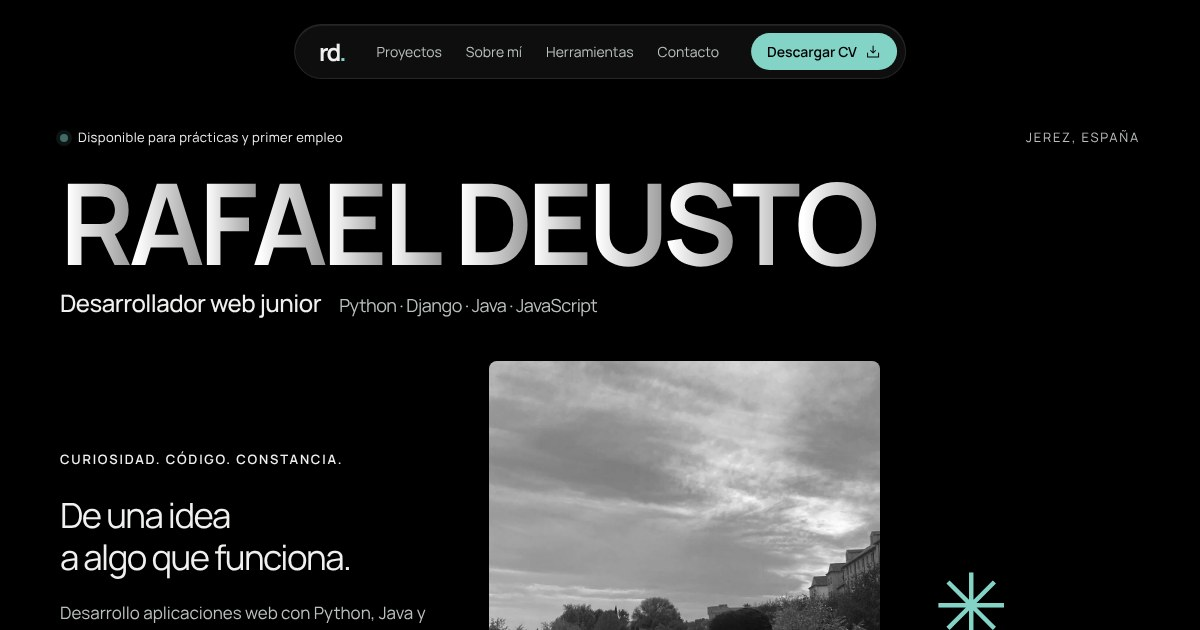
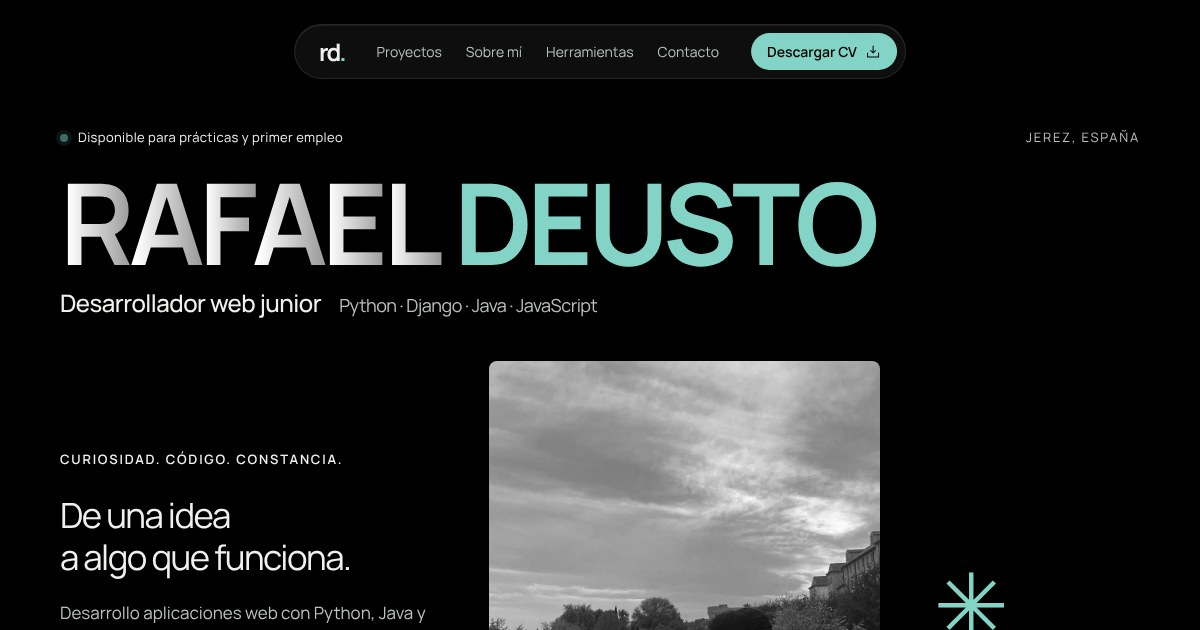
Volver a mostrar el apellido en color turquesa
Claude-Session: https://claude.ai/code/session_01RsojQU4FhvfHuqc1ziSe5o

Changed region(s): [[0.37, 0.2714, 0.74, 0.4222]]

diff --git a/assets/index-YK7Gt9VJ.css b/assets/index-YK7Gt9VJ.css
@@ -1,0 +1,1 @@
+@import "https://fonts.googleapis.com/css2?family=Manrope:wght@400;500;600;700&display=swap";@layer properties{@supports (((-webkit-hyphens:none)) and (not (margin-trim:inline))) or ((-moz-orient:inline) and (not (color:rgb(from red r g b)))){*,:before,:after,::backdrop{--tw-blur:initial;--tw-brightness:initial;--tw-contrast:initial;--tw-grayscale:initial;--tw-hue-rotate:initial;--tw-invert:initial;--tw-opacity:initial;--tw-saturate:initial;--tw-sepia:initial;--tw-drop-shadow:initial;--tw-drop-shadow-color:initial;--tw-drop-shadow-alpha:100%;--tw-drop-shadow-size:initial}}}@layer theme{:root,:host{--font-sans:ui-sans-serif, system-ui, sans-serif, "Apple Color Emoji", "Segoe UI Emoji", "Segoe UI Symbol", "Noto Color Emoji";--font-mono:ui-monospace, SFMono-Regular, Menlo, Monaco, Consolas, "Liberation Mono", "Courier New", monospace;--spacing:.25rem;--default-font-family:var(--font-sans);--default-mono-font-family:var(--font-mono)}}@layer base{*,:after,:before,::backdrop{box-sizing:border-box;border:0 solid;margin:0;padding:0}::file-selector-button{box-sizing:border-box;border:0 solid;margin:0;padding:0}html,:host{-webkit-text-size-adjust:100%;tab-size:4;line-height:1.5;font-family:var(--default-font-family,ui-sans-serif, system-ui, sans-serif, "Apple Color Emoji", "Segoe UI Emoji", "Segoe UI Symbol", "Noto Color Emoji");font-feature-settings:var(--default-font-feature-settings,normal);font-variation-settings:var(--default-font-variation-settings,normal);-webkit-tap-highlight-color:transparent}hr{height:0;color:inherit;border-top-width:1px}abbr:where([title]){-webkit-text-decoration:underline dotted;text-decoration:underline dotted}h1,h2,h3,h4,h5,h6{font-size:inherit;font-weight:inherit}a{color:inherit;-webkit-text-decoration:inherit;-webkit-text-decoration:inherit;-webkit-text-decoration:inherit;-webkit-text-decoration:inherit;text-decoration:inherit}b,strong{font-weight:bolder}code,kbd,samp,pre{font-family:var(--default-mono-font-family,ui-monospace, SFMono-Regular, Menlo, Monaco, Consolas, "Liberation Mono", "Courier New", monospace);font-feature-settings:var(--default-mono-font-feature-settings,normal);font-variation-settings:var(--default-mono-font-variation-settings,normal);font-size:1em}small{font-size:80%}sub,sup{vertical-align:baseline;font-size:75%;line-height:0;position:relative}sub{bottom:-.25em}sup{top:-.5em}table{text-indent:0;border-color:inherit;border-collapse:collapse}:-moz-focusring{outline:auto}progress{vertical-align:baseline}summary{display:list-item}ol,ul,menu{list-style:none}img,svg,video,canvas,audio,iframe,embed,object{vertical-align:middle;display:block}img,video{max-width:100%;height:auto}button,input,select,optgroup,textarea{font:inherit;font-feature-settings:inherit;font-variation-settings:inherit;letter-spacing:inherit;color:inherit;opacity:1;background-color:#0000;border-radius:0}::file-selector-button{font:inherit;font-feature-settings:inherit;font-variation-settings:inherit;letter-spacing:inherit;color:inherit;opacity:1;background-color:#0000;border-radius:0}:where(select:is([multiple],[size])) optgroup{font-weight:bolder}:where(select:is([multiple],[size])) optgroup option{padding-inline-start:20px}::file-selector-button{margin-inline-end:4px}::placeholder{opacity:1}@supports (not ((-webkit-appearance:-apple-pay-button))) or (contain-intrinsic-size:1px){::placeholder{color:currentColor}@supports (color:color-mix(in lab, red, red)){::placeholder{color:color-mix(in oklab, currentcolor 50%, transparent)}}}textarea{resize:vertical}::-webkit-search-decoration{-webkit-appearance:none}::-webkit-date-and-time-value{min-height:1lh;text-align:inherit}::-webkit-datetime-edit{display:inline-flex}::-webkit-datetime-edit-fields-wrapper{padding:0}::-webkit-datetime-edit{padding-block:0}::-webkit-datetime-edit-year-field{padding-block:0}::-webkit-datetime-edit-month-field{padding-block:0}::-webkit-datetime-edit-day-field{padding-block:0}::-webkit-datetime-edit-hour-field{padding-block:0}::-webkit-datetime-edit-minute-field{padding-block:0}::-webkit-datetime-edit-second-field{padding-block:0}::-webkit-datetime-edit-millisecond-field{padding-block:0}::-webkit-datetime-edit-meridiem-field{padding-block:0}::-webkit-calendar-picker-indicator{line-height:1}:-moz-ui-invalid{box-shadow:none}button,input:where([type=button],[type=reset],[type=submit]){appearance:button}::file-selector-button{appearance:button}::-webkit-inner-spin-button{height:auto}::-webkit-outer-spin-button{height:auto}[hidden]:where(:not([hidden=until-found])){display:none!important}}@layer components;@layer utilities{.visible{visibility:visible}.absolute{position:absolute}.start{inset-inline-start:var(--spacing)}.block{display:block}.resize{resize:both}.blur{--tw-blur:blur(8px);filter:var(--tw-blur,) var(--tw-brightness,) var(--tw-contrast,) var(--tw-grayscale,) var(--tw-hue-rotate,) var(--tw-invert,) var(--tw-saturate,) var(--tw-sepia,) var(--tw-drop-shadow,)}}:root{--background:#101314;--foreground:#eff1ee;--accent:#83d3c7;--muted:#a2a9a8;--border:#303637;--primary:#83d3c7;--primary-foreground:#101314;--radius:1rem}*{box-sizing:border-box}html{scroll-behavior:smooth;scroll-padding-top:90px}body{background:var(--background);color:var(--foreground);margin:0;font-family:Manrope,sans-serif}a{color:inherit;text-decoration:none}button,a{-webkit-tap-highlight-color:transparent}a:focus-visible,button:focus-visible{outline:2px solid var(--accent);outline-offset:6px}nav,a.pill{align-items:center;gap:24px;display:flex}.nav{border-bottom:1px solid var(--border);justify-content:space-between;align-items:center;height:94px;margin:0 5%;display:flex}.brand{letter-spacing:-3px;font-family:Manrope,sans-serif;font-size:40px;font-weight:700}.brand span{color:var(--accent)}nav{gap:36px;font-size:14px}nav a:last-child{align-items:center;gap:8px;display:flex}nav a:hover{color:var(--accent)}.hero{padding:30px 5% 84px}.hero-top{letter-spacing:1.8px;color:var(--muted);justify-content:space-between;font-size:12px;display:flex}h1{letter-spacing:-.055em;white-space:nowrap;margin:26px 0 28px;font-family:Manrope,sans-serif;font-size:clamp(70px,13.6vw,220px);font-weight:600;line-height:.98}h1 span{color:var(--accent)}.hero-bottom{grid-template-columns:1fr 1fr .56fr;align-items:end;gap:5%;display:grid}.eyebrow{letter-spacing:1.8px;font-size:12px;font-weight:600}.intro>p{letter-spacing:-1.5px;margin:24px 0 20px;font-size:clamp(25px,2.9vw,44px);line-height:1.22}.intro-copy{color:var(--muted);max-width:370px;font-size:15px;line-height:1.8}.pill{border-radius:99px;width:fit-content;margin-top:28px;padding:18px 23px;font-size:14px;font-weight:700;transition:transform .2s,background .2s;gap:25px!important}.pill:hover{background:var(--accent);transform:translateY(-3px)}.light{background:var(--foreground);color:var(--background)}.portrait{background:#bfc3bd;border-radius:8px;height:370px;position:relative;overflow:hidden}.portrait img{object-fit:cover;object-position:center 36%;filter:grayscale();width:100%;height:100%}.portrait-caption{color:#fff;letter-spacing:1.8px;background:linear-gradient(#0000,#101314aa);justify-content:space-between;padding:18px;font-size:10px;display:flex;position:absolute;bottom:0;left:0;right:0}.hero-note{padding-bottom:10px}.asterisk{color:var(--accent);font-size:90px;line-height:1}.hero-note p{margin:18px 0 35px;font-size:17px;line-height:1.55}.hero-note a,.project a{align-items:center;gap:10px;font-size:14px;display:flex}.projects{border-top:1px solid var(--border);padding:100px 5%}.section-head{justify-content:space-between;align-items:start;margin-bottom:65px;display:flex}h2{letter-spacing:-3px;width:60%;margin:0;font-size:clamp(40px,6vw,86px);font-weight:500;line-height:1.05}h2 em{color:var(--accent);font-style:normal}.project{border-top:1px solid var(--border);grid-template-columns:1fr 1.65fr;gap:50px;padding-top:35px;display:grid}.project h3{letter-spacing:-2px;margin:20px 0;font-size:48px}.project p{color:var(--muted);font-size:16px;line-height:1.8}.project img{border-radius:10px;width:100%}.project a{color:var(--accent);margin-top:25px}@media (width<=700px){.nav{height:76px}nav{gap:18px;font-size:12px}.hero-top{letter-spacing:.6px;font-size:9px}.hero{padding-top:24px}h1{margin:30px 0;font-size:13vw}.hero-bottom{grid-template-columns:1fr 1fr;gap:22px}.intro{grid-column:1/-1}.intro>p{font-size:36px}.portrait{height:300px}.hero-note p{font-size:15px}.asterisk{font-size:70px}.section-head{display:block}.section-head h2{letter-spacing:-2px;width:100%;margin-top:25px}.projects{padding-top:60px}.project{grid-template-columns:1fr;gap:20px}.project h3{font-size:40px}}@media (prefers-reduced-motion:reduce){html{scroll-behavior:auto}*{transition:none!important;animation:none!important}}.skip-link{z-index:100;background:var(--accent);color:#101314;padding:16px;position:fixed;top:-80px;left:20px}.skip-link:focus{top:16px}.tech-ribbon{border-block:1px solid var(--border);padding:26px 0;overflow:hidden}.tech-track{width:max-content;animation:36s linear infinite marquee;display:flex}.tech-ribbon:hover .tech-track{animation-play-state:paused}.tech-set{align-items:center;display:flex}.tech-set>span{white-space:nowrap;color:#c0c6c4;align-items:center;gap:55px;margin-right:55px;font-family:Manrope,sans-serif;font-size:32px;line-height:1;display:flex}.tech-set i{color:var(--accent);font-size:22px;font-style:normal}.portrait img{transform:scale(1.045) translate(var(--px,0px),var(--py,0px));transition:transform .4s ease-out}.section-aside{color:var(--muted);margin-top:25px;font-size:14px;line-height:1.7}.projects{border-top:none;padding-bottom:40px}.project{background:var(--background);align-items:center;padding:40px 0 80px}.project-index{color:var(--accent);align-items:center;gap:22px;font-family:Manrope,sans-serif;font-size:42px;font-weight:400;display:flex}.project-index span{letter-spacing:1.3px;color:var(--muted);font-family:Manrope,sans-serif;font-size:11px}.project h3{justify-content:space-between;align-items:center;margin:12px 0 20px;font-size:clamp(36px,4vw,58px);font-weight:500;display:flex}.project h3>span{color:var(--muted);font-size:26px}.project p{font-size:15px;line-height:1.8}.contribution{margin:22px 0}.contribution>span{letter-spacing:1.3px;color:#e3e7e4;font-size:11px}.contribution p{margin-top:8px;font-size:14px}.tags{flex-wrap:wrap;gap:8px;display:flex}.tags span{white-space:nowrap;border:1px solid #3d4646;border-radius:30px;padding:7px 12px;font-size:12px}.project a.project-link{border-bottom:1px solid #3d4646;justify-content:space-between;padding:18px 0 10px;font-size:14px;transition:color .2s}.project-link:hover{color:#fff}.tournament{background:#183c38;border:1px solid #2d5750;border-radius:12px;min-height:440px;padding:32px;overflow:hidden;box-shadow:inset 0 0 100px #0d252480}.tournament-top{justify-content:space-between;align-items:center;gap:15px;display:flex}.tournament-top>span:first-child{letter-spacing:-.5px;font-family:Manrope,sans-serif;font-size:18px;font-weight:600}.tournament-top>span:first-child span{color:#a1e5a9}.diagram-label{letter-spacing:1px;color:#b0c9c0;font-size:9px}.tournament-title{margin:26px 0;font-family:Manrope,sans-serif;font-size:clamp(28px,3vw,44px);line-height:1.15}.tournament-title>span{color:#a1e5a9}.bracket{grid-template-columns:1fr 42px 1fr;align-items:center;display:grid}.round>span{letter-spacing:1.5px;color:#b0c9c0;margin-bottom:12px;font-size:10px;display:block}.match{background:#102e2b;border:1px solid #386158;border-radius:7px;margin:10px 0;overflow:hidden}.match p{color:#e6ebe2;justify-content:space-between;padding:9px 12px;font-size:12px;line-height:1.2;display:flex;margin:0!important}.match p+p{color:#95aca2;border-top:1px solid #2a4d44}.match b{color:#a1e5a9}.connector{border:1px solid #75a38b;border-left:0;height:94px;margin-right:20px;position:relative}.connector:after{content:"";border-top:1px solid #75a38b;width:20px;position:absolute;top:50%;right:-20px}.diagram-footer{color:#b0c9c0;gap:18px;margin-top:25px;font-size:10px;display:flex}.tesis-visual{background:#191c20;border:1px solid #31353b;border-radius:12px;margin:0;padding:24px 0 0;overflow:hidden}.tesis-visual img{aspect-ratio:16/9;object-fit:contain;border-radius:0;display:block}.tesis-visual figcaption{color:#abb2b9;justify-content:space-between;gap:12px;padding:25px;font-size:12px;display:flex}.tesis-visual figcaption span:last-child{letter-spacing:1px;color:#bbae89;font-size:10px}.about{border-top:1px solid var(--border);padding:80px 5% 110px}.about-head{justify-content:space-between;align-items:center;margin-bottom:35px;display:flex}.about-head .asterisk{font-size:60px}.about h2{letter-spacing:-4px;width:100%;font-size:clamp(45px,7.3vw,110px)}.about-body{grid-template-columns:40% 60%;margin-top:65px;display:grid}.about-label{letter-spacing:1.5px;color:var(--muted);padding-top:8px;font-size:12px}.about-body p{color:#c2c9c6;max-width:720px;margin:0 0 20px;font-size:19px;line-height:1.8}.about-body p:first-child{color:var(--foreground);font-size:24px;line-height:1.6}.text-link{color:var(--accent);border-bottom:1px solid #50746d;align-items:center;gap:35px;width:fit-content;padding:10px 0;font-size:15px;display:flex}.experience-note{border-top:1px solid var(--border);grid-template-columns:40% 60%;margin-top:60px;padding-top:30px;display:grid}.experience-note>span{letter-spacing:1px;color:var(--accent);font-size:12px}.experience-note p{color:var(--muted);max-width:720px;margin:0;font-size:15px;line-height:1.8}.skills{color:#182320;background:#edf0eb;border-radius:35px 35px 0 0;padding:100px 5%}.skills h2{font-size:clamp(45px,6vw,84px)}.skill-row{border-top:1px solid #bcc7bf;grid-template-columns:55px 1fr auto 45px;align-items:center;gap:20px;padding:32px 0;display:grid}.skill-row:last-child{border-bottom:1px solid #bcc7bf}.skill-number{color:#52655b;align-self:start;margin-top:10px;font-size:13px}.skill-row h3{letter-spacing:-1px;margin:0 0 7px;font-size:32px;font-weight:500}.skill-row p{color:#52655b;margin:0;font-size:14px;line-height:1.7}.skills .tags span{border-color:#b6c3b9;font-size:13px}.skill-arrow{justify-self:end}.learning-grid{grid-template-columns:1fr 1fr;gap:10%;margin-top:90px;display:grid}.learning-grid h3{letter-spacing:-1px;margin:22px 0;font-size:34px;font-weight:500;line-height:1.2}.learning-grid p{color:#43574b;font-size:15px;line-height:1.8}.learning-date{margin:20px 0;color:#182320!important;font-size:23px!important}.status{background:#e2e8e1;border-left:2px solid #467a68;max-width:400px;padding:15px 18px;font-size:13px!important}.course-link{text-underline-offset:5px;align-items:center;gap:10px;font-size:15px;text-decoration:underline;display:flex}.course-meta{font-size:12px!important}.languages{border-top:1px solid #bdc8bf;margin-top:30px;padding-top:25px}.languages>span{letter-spacing:1.5px;font-size:11px}.languages p{margin-bottom:0;font-size:14px}.contact{padding:95px 5% 50px}.contact-top{color:var(--muted);letter-spacing:1px;justify-content:space-between;gap:20px;font-size:12px;display:flex}.contact h2{letter-spacing:-5px;width:100%;margin:60px 0;font-size:clamp(55px,9.6vw,145px);position:relative}.contact h2>svg{stroke-width:1px;width:100px;height:100px;position:absolute;top:25%;right:4%}.contact-bottom{justify-content:space-between;align-items:center;display:flex}.contact-bottom p{margin:0;font-size:19px;line-height:1.7}.contact-bottom p>span{color:var(--muted)}.contact-pill{color:#10251f;background:linear-gradient(120deg,#8ee0cd,#aadbbb);justify-content:space-between;gap:28px;min-width:255px;margin-top:0;padding:26px 35px;box-shadow:inset 0 1px 1px #e6fff6,0 7px 35px #73cbb51a;font-size:20px!important}.contact-pill:hover{box-shadow:inset 0 1px 1px #e6fff6,0 10px 40px #73cbb540}.contact-links{border-top:1px solid var(--border);gap:38px;margin-top:60px;padding-top:28px;font-size:14px;display:flex}.contact-links a{align-items:center;gap:10px;display:flex}.contact-links a:first-child{margin-right:auto}.contact-links a:hover{color:var(--accent)}footer{color:var(--muted);justify-content:space-between;align-items:center;gap:20px;padding:22px 5% 35px;font-size:12px;display:flex}footer .brand{color:var(--foreground);font-size:30px}footer a:last-child{font-size:12px}section[id]{scroll-margin-top:35px}[data-reveal].is-visible{animation-play-state:running}@keyframes marquee{to{transform:translate(-50%)}}@keyframes reveal-in{0%{opacity:.35;transform:translateY(24px)}to{opacity:1;transform:translateY(0)}}@media (width>=1100px){.project{min-height:660px;position:sticky;top:10px}.tesis-project{padding-bottom:65px}.hero{max-width:1800px;margin:auto}.hero-bottom{grid-template-columns:1fr 1.04fr .55fr}.portrait{height:410px}}@media (width>=1800px){h1{font-size:220px}.nav,.projects,.about,.skills,.contact,footer{padding-left:calc(50vw - 810px);padding-right:calc(50vw - 810px)}.nav{margin:0}}@media (width<=1000px){.hero-bottom{grid-template-columns:1.1fr 1fr;gap:35px}.hero-note{display:none}.portrait{height:370px}.intro>p{font-size:32px}.project{grid-template-columns:1fr 1.2fr;gap:30px}.tournament{min-height:420px;padding:23px}.tournament-top{flex-direction:column;align-items:start;gap:8px}.skill-row{grid-template-columns:35px 1fr auto;gap:18px}.skill-arrow{display:none}.skill-row .tags{justify-content:flex-end;max-width:200px}.about-body p{font-size:17px}.about-body p:first-child{font-size:21px}}@media (width<=700px){.hero-bottom{grid-template-columns:1fr 1fr;align-items:end;gap:25px}.hero-note{display:block}.intro{grid-column:1/-1}.portrait{height:300px}.intro>p{font-size:36px}.intro-copy{max-width:100%;font-size:16px}.hero-note p{font-size:16px}.hero-top{line-height:1.6}.tech-ribbon{padding:23px 0}.tech-set>span{gap:32px;margin-right:32px;font-size:25px}.projects{padding:65px 5% 0}.section-head{margin-bottom:40px}.section-aside{font-size:14px}.project{grid-template-columns:1fr;gap:28px;padding:25px 0 55px}.project h3{font-size:44px}.project p{font-size:16px}.contribution p{font-size:14px}.project-index span{font-size:11px}.tournament{min-height:390px;padding:25px}.tournament-top{flex-direction:row;align-items:center}.tournament-title{font-size:35px}.diagram-label{text-align:right;max-width:65px;font-size:8px}.diagram-footer{gap:15px;font-size:10px}.tesis-visual figcaption{padding:20px;font-size:11px}.about{padding:55px 5% 65px}.about h2{letter-spacing:-2px;font-size:clamp(37px,8.2vw,58px)}.about-head .asterisk{font-size:42px}.about-body{grid-template-columns:1fr;gap:20px;margin-top:35px}.about-body p:first-child{font-size:21px}.about-body p{font-size:16px}.experience-note{grid-template-columns:1fr;gap:20px;margin-top:40px}.skills{border-radius:22px 22px 0 0;padding:65px 5%}.skill-row{grid-template-columns:25px 1fr;gap:16px;padding:25px 0}.skill-row h3{font-size:27px}.skill-row .tags{grid-column:2;justify-content:flex-start;max-width:none}.skill-row p{font-size:14px}.learning-grid{grid-template-columns:1fr;gap:45px;margin-top:55px}.learning-grid h3{font-size:32px}.contact{padding:65px 5% 35px}.contact-top{letter-spacing:.5px;align-items:start;font-size:10px}.contact-top .eyebrow{letter-spacing:1px;font-size:10px}.contact-top>span:last-child{text-align:right;max-width:130px}.contact h2{letter-spacing:-2px;margin:40px 0;font-size:clamp(45px,10.5vw,72px)}.contact h2>svg{display:none}.contact-bottom{flex-direction:column;align-items:flex-start;gap:30px}.contact-bottom p{font-size:17px}.contact-pill{min-width:250px;padding:24px 30px}.contact-links{flex-wrap:wrap;gap:22px;margin-top:40px;font-size:13px}.contact-links a:first-child{width:100%}footer{flex-wrap:wrap;gap:20px;font-size:11px}footer a:last-child{margin-left:auto}.eyebrow{letter-spacing:1.1px;font-size:11px}}@media (prefers-reduced-motion:reduce){[data-reveal]{opacity:1;animation:none;transform:none}.tech-track{animation:none}.portrait img{transform:none}}h1{letter-spacing:-.035em;font-size:clamp(64px,12.35vw,205px)}@media (width<=700px){h1{letter-spacing:-.04em;font-size:12.4vw}}@media (width>=1800px){h1{font-size:205px}}.portrait{aspect-ratio:1080/1346;background:#101314;justify-self:center;width:100%;max-width:400px;height:auto}.portrait img{object-position:center;transform:none}.project-gallery{min-width:0}.project-gallery .tesis-visual{margin:0}.project-gallery .tesis-visual img{aspect-ratio:16/9;object-fit:cover;object-position:top;background:#f5f6f8;width:100%;height:auto}@media (width<=700px){.portrait{max-width:320px}.project-gallery .tesis-visual img{max-height:none}}.project .project-preview{display:block}.project-preview:focus-visible{outline:3px solid var(--accent);outline-offset:-3px}.hero-note a+a{margin-top:14px}.contact-links{flex-wrap:wrap}:root{--muted:#b9c0bf}.nav-cv{background:var(--accent);border-radius:99px;padding:10px 16px;font-weight:600;transition:transform .2s,background .2s;color:var(--primary-foreground)!important}.nav-cv:hover{background:var(--foreground)}.nav-cv:active,.pill:active,.btn:active{transform:scale(.98)}.hero-top{font-size:13px}.availability{color:var(--foreground);letter-spacing:.4px;align-items:center;gap:10px;display:inline-flex}.availability i{background:var(--accent);border-radius:50%;width:8px;height:8px;box-shadow:0 0 0 4px #83d3c733}h1{margin:24px 0 12px;font-size:clamp(56px,9.4vw,156px)}.hero-role{letter-spacing:-.5px;flex-wrap:wrap;align-items:baseline;gap:4px 18px;margin:0 0 40px;font-size:clamp(20px,2vw,30px);font-weight:500;display:flex}.hero-role span{color:var(--muted);font-size:.75em;font-weight:400}.intro-copy{max-width:440px;font-size:17px;line-height:1.7}.hero-actions{flex-wrap:wrap;gap:12px;margin-top:28px;display:flex}.hero-actions .pill{margin-top:0;font-size:16px;font-weight:600}.ghost{color:var(--foreground);border:1px solid #4a5354}.ghost:hover{color:var(--primary-foreground)}.eyebrow{font-size:13px}.section-aside{font-size:15px}.project p{font-size:16px}.contribution>span{font-size:12px}.contribution p{font-size:15px}.project-index span{font-size:12px}.tags span{border-color:#4a5354;font-size:13px}.project-actions{flex-wrap:wrap;gap:12px;margin-top:28px;display:flex}.project a.btn{border-radius:99px;align-items:center;gap:8px;margin-top:0;padding:12px 20px;font-size:15px;font-weight:600;transition:transform .2s,background .2s,color .2s;display:inline-flex}.project a.btn-primary{background:var(--accent);color:var(--primary-foreground)}.project a.btn-primary:hover{background:var(--foreground)}.project a.btn-secondary{color:var(--foreground);border:1px solid #4a5354}.project a.btn-secondary:hover{border-color:var(--accent);color:var(--accent)}.experience-note>span{font-size:13px;font-weight:600}.experience-note p{color:var(--foreground);font-size:17px}@media (width<=700px){.nav-secondary{display:none}nav{gap:16px;font-size:13px}.nav-cv{padding:9px 14px}.hero-top{letter-spacing:.3px;font-size:11px}h1{margin:22px 0 10px;font-size:12.4vw}.hero-role{margin-bottom:28px;font-size:20px}.intro-copy{font-size:16px}.intro>p{margin-top:16px;font-size:30px}.eyebrow{font-size:12px}.experience-note p{font-size:16px}}:root{--background:#000;--surface:#181818;--surface-2:#272727;--border:#313131;--primary-foreground:#000;--ease:cubic-bezier(.32,.72,0,1)}a,button,.pill,.btn,.nav-cv,.tags span{transition-timing-function:var(--ease)!important;transition-duration:.7s!important}h1,h2,h3{text-wrap:balance}p{text-wrap:pretty}.brand{letter-spacing:-2px}.scroll-progress{z-index:60;background:var(--accent);transform-origin:0;height:2px;transform:scaleX(var(--page-progress,0));position:fixed;inset:0 0 auto}.nav{display:none}.island{z-index:50;top:calc(24px + env(safe-area-inset-top,0px));-webkit-backdrop-filter:blur(24px)saturate(1.4);background:#18181899;border:1px solid #ffffff1a;border-radius:999px;align-items:center;gap:32px;width:max-content;max-width:calc(100% - 32px);padding:8px 8px 8px 24px;display:flex;position:fixed;left:50%;transform:translate(-50%);box-shadow:inset 0 1px #ffffff14,0 16px 48px #0006}.island .brand{font-size:24px;line-height:1}.island-links{gap:24px;font-size:14px;display:flex}.island-links a{color:var(--muted);transition:color .7s var(--ease);position:relative}.island-links a:hover,.island-links a[aria-current]{color:var(--foreground)}.island-links a[aria-current]:after{content:"";background:var(--accent);border-radius:50%;width:4px;height:4px;margin:auto;position:absolute;bottom:-8px;left:0;right:0}.island .nav-cv{align-items:center;gap:8px;padding:8px 16px;font-size:14px;display:inline-flex}.burger{background:var(--surface-2);cursor:pointer;border:0;border-radius:50%;width:40px;height:40px;display:none;position:relative}.burger span{background:var(--foreground);height:2px;transition:transform .7s var(--ease),top .7s var(--ease);border-radius:2px;position:absolute;left:12px;right:12px}.burger span:first-child{top:15px}.burger span:last-child{top:23px}.island.is-open .burger span:first-child{top:19px;transform:rotate(45deg)}.island.is-open .burger span:last-child{top:19px;transform:rotate(-45deg)}.menu-overlay{z-index:40;-webkit-backdrop-filter:blur(64px);opacity:0;visibility:hidden;transition:opacity .7s var(--ease),visibility 0s .7s;background:#000c;align-items:center;padding:96px 24px 48px;display:flex;position:fixed;inset:0}.menu-overlay.is-open{opacity:1;visibility:visible;transition:opacity .7s var(--ease)}.menu-overlay nav{letter-spacing:-1.5px;flex-direction:column;gap:16px;font-size:48px;font-weight:600;line-height:1;display:flex}.menu-overlay a{opacity:0;transition:opacity .7s var(--ease),transform .7s var(--ease);transition-delay:calc(var(--d)*50ms + .1s);align-items:center;gap:12px;display:inline-flex;overflow:hidden;transform:translateY(48px)}.menu-overlay.is-open a{opacity:1;transform:none}.menu-overlay .menu-cv{letter-spacing:0;color:var(--accent);margin-top:24px;font-size:20px}body.menu-open{overflow:hidden}@media (width<=860px){.island-links,.island .nav-cv{display:none}.burger{display:block}.island{justify-content:space-between;width:auto;left:16px;right:16px;transform:none}}.hero{padding-top:128px}.hero-name{letter-spacing:-.05em;transform-origin:0 100%;transform:scale(calc(1 - var(--hero-out,0)*.12)) translateY(calc(var(--hero-out,0)*-48px));opacity:calc(1 - var(--hero-out,0)*.9);filter:blur(calc(var(--hero-out,0)*12px));font-weight:700;line-height:.9}.name-line{color:#0000;background:linear-gradient(90deg,#fff,#9b9b9b);-webkit-background-clip:text;background-clip:text;display:inline-block}.name-line .char{background:inherit;-webkit-background-clip:text;background-clip:text;display:inline-block}.motion .name-line .char{animation:char-in 1.2s var(--ease) both;animation-delay:calc(var(--i)*60ms + .15s)}.motion .name-line+.name-line .char{animation-delay:calc(var(--i)*60ms + .45s)}@keyframes char-in{0%{opacity:0;filter:blur(12px);transform:translateY(64px)rotate(6deg)}to{opacity:1;filter:none;transform:none}}.motion .hero-top,.motion .hero-role,.motion .hero-bottom{animation:fade-up 1.2s var(--ease) both;animation-delay:.9s}.motion .hero-bottom{animation-delay:1.1s}@keyframes fade-up{0%{opacity:0;filter:blur(12px);transform:translateY(64px)}to{opacity:1;filter:none;transform:none}}.portrait{transform:translateY(calc(var(--hero-out,0)*-64px))}.portrait img{transform:scale(calc(1.04 + var(--hero-out,0)*.12))}.portrait-caption{background:#00000080}.tech-track{transform:skewX(var(--skew,0deg))}.tech-set>span{color:var(--foreground);font-weight:600}[data-reveal]{animation:none}.motion [data-reveal]{opacity:0;filter:blur(12px);transition:opacity 1s var(--ease),transform 1s var(--ease),filter 1s var(--ease);transform:translateY(64px)}.motion [data-reveal].is-visible{opacity:1;filter:none;transform:none}.tesis-visual{background:var(--surface);border-color:var(--border)}@media (width>=1100px){.project{transform-origin:top;top:96px}.project>*{transform:scale(calc(1 - var(--stack,0)*.08));filter:brightness(calc(1 - var(--stack,0)*.6));transition:none}}.tagline{border-top:1px solid var(--border);justify-content:center;padding:96px 5%;display:flex}.tagline p{letter-spacing:-2px;text-wrap:balance;max-width:880px;margin:0;font-size:60px;font-weight:600;line-height:1.1}.tagline .word{color:#ffffff4d;transition:color .7s var(--ease)}.tagline .word.lit{color:var(--foreground)}@media (width<=700px){.tagline p{letter-spacing:-1px;font-size:36px}.tagline{padding:64px 16px}}.skills{background:var(--surface);color:var(--foreground)}.skill-row{border-color:var(--border);grid-template-columns:55px 1fr auto}.skill-row:last-child{border-color:var(--border)}.skill-row p,.learning-grid p,.course-meta,.languages p{color:var(--muted)}.skills .tags span{border-color:#4a5354}.learning-date{color:var(--foreground)!important}.status{border:1px solid var(--border);background:var(--surface-2);color:var(--foreground)}.course-link{color:var(--accent)}.contact-pill{background:var(--accent);color:var(--primary-foreground);box-shadow:none}.contact-pill:hover{background:var(--foreground);box-shadow:none}.contact h2{padding-right:0}.availability i{animation:pulse 2.4s var(--ease) infinite;box-shadow:0 0 0 4px #83d3c733}@keyframes pulse{50%{opacity:.5}}@media (width<=700px){.hero{padding-top:104px}.skill-row{grid-template-columns:25px 1fr}}@media (prefers-reduced-motion:reduce){.hero-name,.portrait,.portrait img,.tech-track,.project>*{filter:none!important;opacity:1!important;transform:none!important}.tagline .word{color:var(--foreground)}.availability i{animation:none}}.hero-name .char{color:#0000;background:linear-gradient(90deg,#fff 10%,#9b9b9b 90%) fixed;-webkit-background-clip:text;background-clip:text}.name-line{background:0 0}.tagline{height:220vh;padding:0 5%;display:block;position:relative}.tagline-sticky{justify-content:center;align-items:center;height:100vh;display:flex;position:sticky;top:0}.menu-overlay{background:#000}@media (width<=700px){.tagline{height:200vh;padding:0 16px}}@media (prefers-reduced-motion:reduce){.tagline{height:auto;padding-block:96px}.tagline-sticky{height:auto;position:static}}.hero-name .char{margin-right:-.08em;padding-right:.08em}.hero-name .name-line+.name-line .char{color:var(--accent);background:0 0;-webkit-background-clip:border-box;background-clip:border-box}@property --tw-blur{syntax:"*";inherits:false}@property --tw-brightness{syntax:"*";inherits:false}@property --tw-contrast{syntax:"*";inherits:false}@property --tw-grayscale{syntax:"*";inherits:false}@property --tw-hue-rotate{syntax:"*";inherits:false}@property --tw-invert{syntax:"*";inherits:false}@property --tw-opacity{syntax:"*";inherits:false}@property --tw-saturate{syntax:"*";inherits:false}@property --tw-sepia{syntax:"*";inherits:false}@property --tw-drop-shadow{syntax:"*";inherits:false}@property --tw-drop-shadow-color{syntax:"*";inherits:false}@property --tw-drop-shadow-alpha{syntax:"<percentage>";inherits:false;initial-value:100%}@property --tw-drop-shadow-size{syntax:"*";inherits:false}

diff --git a/index.html b/index.html
@@ -17,8 +17,8 @@
 <meta name="twitter:card" content="summary_large_image" />
 <link rel="icon" type="image/svg+xml" href="/Portfolio/favicon.svg" />
 <title>Rafael Deusto — Desarrollador de software</title>
-  <script type="module" crossorigin src="/Portfolio/assets/index-BacNZ4Jv.js"></script>
-  <link rel="stylesheet" crossorigin href="/Portfolio/assets/index-BicVINRl.css">
+  <script type="module" crossorigin src="/Portfolio/assets/index-DHEoON9g.js"></script>
+  <link rel="stylesheet" crossorigin href="/Portfolio/assets/index-YK7Gt9VJ.css">
 </head>
 <body><div id="root"></div></body>
 </html>

diff --git a/source/app/globals.css b/source/app/globals.css
@@ -180,3 +180,6 @@ body.menu-open{overflow:hidden}
 .tagline-sticky{position:static;height:auto}
 }
 .hero-name .char{padding-right:.08em;margin-right:-.08em}
+
+/* Surname keeps the accent colour; the first name keeps the metallic gradient. */
+.hero-name .name-line + .name-line .char{background:none;-webkit-background-clip:border-box;background-clip:border-box;color:var(--accent)}
